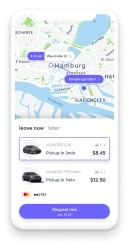
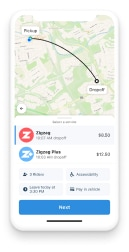
new wunder ride mockups on homepage, DE ride updates

diff --git a/_includes/static/de/block-shuttle-main.html b/_includes/static/de/block-shuttle-main.html
@@ -60,14 +60,12 @@
     <div class="container-fluid">
       <div class="row align-items-center">
         <div class="col-md-6 order-md-1">
-          <div class="phonemockup-animation screens-5">
+          <div class="phonemockup-animation screens-3">
             <img class="phonemockup-animation_notch" data-src="uploads/global/mockups/notch-black.png" data-srcset="uploads/global/mockups/notch-black@2x.png 2x" alt="Black notch covering a part of the screen as in many new mobile phones" />
             <div class="phonemockup-animation_screen-mask">
-              <img class="phonemockup-animation_screen" src="uploads/global/mockups/PAX/results.png" srcset="uploads/global/mockups/PAX/results@2x.png 2x" alt="Wunder shuttle screen for search results showing a map with a list of potential vehicles" />
-              <img class="phonemockup-animation_screen" src="uploads/global/mockups/PAX/matching.png" srcset="uploads/global/mockups/PAX/matching@2x.png 2x" alt="Wunder shuttle screen showing matching drivers in the area on a map" />
-              <img class="phonemockup-animation_screen" src="uploads/global/mockups/PAX/pickup.png" srcset="uploads/global/mockups/PAX/pickup@2x.png 2x" alt="Wunder shuttle screen showing matched driver 'Sarah' and an eta pickup time" />
-              <img class="phonemockup-animation_screen" src="uploads/global/mockups/PAX/dropoff.png" srcset="uploads/global/mockups/PAX/dropoff@2x.png 2x" alt="Wunder shuttle screen showing a map with a pin at the dropoff location and an eta" />
-              <img class="phonemockup-animation_screen" src="uploads/global/mockups/PAX/ride-finish.png" srcset="uploads/global/mockups/PAX/ride-finish@2x.png 2x" alt="Wunder shuttle screen showing a review screen to rate a driver with stars" />
+              <img class="phonemockup-animation_screen" src="uploads/global/mockups/ride_passenger_1.png" srcset="uploads/global/mockups/ride_passenger_1@2x.png 2x" alt="Wunder shuttle screen for search results showing a map with a list of potential vehicles" />
+              <img class="phonemockup-animation_screen" src="uploads/global/mockups/ride_passenger_2.png" srcset="uploads/global/mockups/ride_passenger_2@2x.png 2x" alt="Wunder shuttle screen showing matching drivers in the area on a map" />
+              <img class="phonemockup-animation_screen" src="uploads/global/mockups/ride_passenger_3.png" srcset="uploads/global/mockups/ride_passenger_3@2x.png 2x" alt="Wunder shuttle screen showing matched driver 'Sarah' and an eta pickup time" />
             </div>
             <img class="phonemockup-animation_base" src="uploads/global/mockups/mockupbase-black.png" srcset="uploads/global/mockups/mockupbase-black@2x.png 2x" alt="Mobile phone frame for a mockup" />
             <div class="progress-bar"></div>
@@ -92,13 +90,12 @@
     <div class="container-fluid">
       <div class="row align-items-center">
         <div class="col-md-6">
-          <div class="phonemockup-animation screens-5">
+          <div class="phonemockup-animation screens-3">
             <img class="phonemockup-animation_notch" data-src="uploads/global/mockups/notch-white.png" data-srcset="uploads/global/mockups/notch-white@2x.png 2x" alt="Black notch covering a part of the screen as in many new mobile phones" />
             <div class="phonemockup-animation_screen-mask">
-              <img class="phonemockup-animation_screen" src="uploads/global/mockups/DAX/request.png" srcset="uploads/global/mockups/DAX/request@2x.png 2x" alt="Wunder shuttle screen for search results showing a map with a list of potential vehicles" />
-              <img class="phonemockup-animation_screen" src="uploads/global/mockups/DAX/turn-by-turn_collapsed.png" srcset="uploads/global/mockups/DAX/turn-by-turn_collapsed@2x.png 2x" alt="Wunder shuttle screen showing matching drivers in the area on a map" />
-              <img class="phonemockup-animation_screen" src="uploads/global/mockups/DAX/turn-by-turn_dropoff.png" srcset="uploads/global/mockups/DAX/turn-by-turn_dropoff@2x.png 2x" alt="Wunder shuttle screen showing matched driver 'Sarah' and an eta pickup time" />
-              <img class="phonemockup-animation_screen" src="uploads/global/mockups/DAX/finish-ride.png" srcset="uploads/global/mockups/DAX/finish-ride@2x.png 2x" alt="Wunder shuttle screen showing a map with a pin at the dropoff location and an eta" />
+              <img class="phonemockup-animation_screen" src="uploads/global/mockups/ride_driver_1.png" srcset="uploads/global/mockups/ride_driver_1@2x.png 2x" alt="Wunder shuttle screen for search results showing a map with a list of potential vehicles" />
+              <img class="phonemockup-animation_screen" src="uploads/global/mockups/ride_driver_2.png" srcset="uploads/global/mockups/ride_driver_2@2x.png 2x" alt="Wunder shuttle screen showing matching drivers in the area on a map" />
+              <img class="phonemockup-animation_screen" src="uploads/global/mockups/ride_driver_3.png" srcset="uploads/global/mockups/ride_driver_3@2x.png 2x" alt="Wunder shuttle screen showing matched driver 'Sarah' and an eta pickup time" />
             </div>
             <img class="phonemockup-animation_base" src="uploads/global/mockups/mockupbase-white.png" srcset="uploads/global/mockups/mockupbase-white@2x.png 2x" alt="Mobile phone frame for a mockup" />
             <div class="progress-bar"></div>

diff --git a/_includes/static/block-shuttle-main.html b/_includes/static/block-shuttle-main.html
@@ -226,25 +226,8 @@
     </div>
   </section>
 
-
   <div class="container">
     <hr class="d-sm-none">
   </div>
-
-  {% comment %}
-  <section class="fullwidth-bg white-bg">
-    <div class="container-fluid text-center">
-      <div class="row">
-        <div class="col-lg-10 offset-lg-1 col-xl-8 offset-xl-2">
-          <h2 class="headline-medium">“They work fast-paced - changing technology and introducing new ideas.”</h2>
-          <p>– Takeshi Kakimi, Marubeni</p>
-        </div>
-      </div>
-    </div>
-  </section>
-  {% endcomment %}
-
-
-
 
 </main>

diff --git a/pages/de/shuttle.md b/pages/de/shuttle.md
@@ -1,12 +1,12 @@
 ---
 layout: blocks
-title: Wunder Shuttle | Skalieren Sie ridehailing On-Demand
+title: Wunder Ride | Skalieren Sie ridehailing On-Demand
 date: 2019-01-10 23:00:00 +0000
 permalink: "/de/ride"
 lang: de
 version: hp
 lang-ref: ride
-share_image: "/uploads/2020/01/30/Sharer-Shuttle@2x.jpg"
+share_image: "/uploads/2020/11/05/social_share_image_ride.jpg"
 page_sections:
 - template: navigation-header-w-button
   block: header-2
@@ -26,7 +26,7 @@ page_sections:
     enabled: false
   background_video:
   show_logos: false
-  background_image: "/uploads/global/shuttle-3dhero@2x.png"
+  background_image: "/uploads/global/shuttle-photohero@2x.jpg"
 - block: shuttle-main
   template: static-file
   subdirectory: static/de
